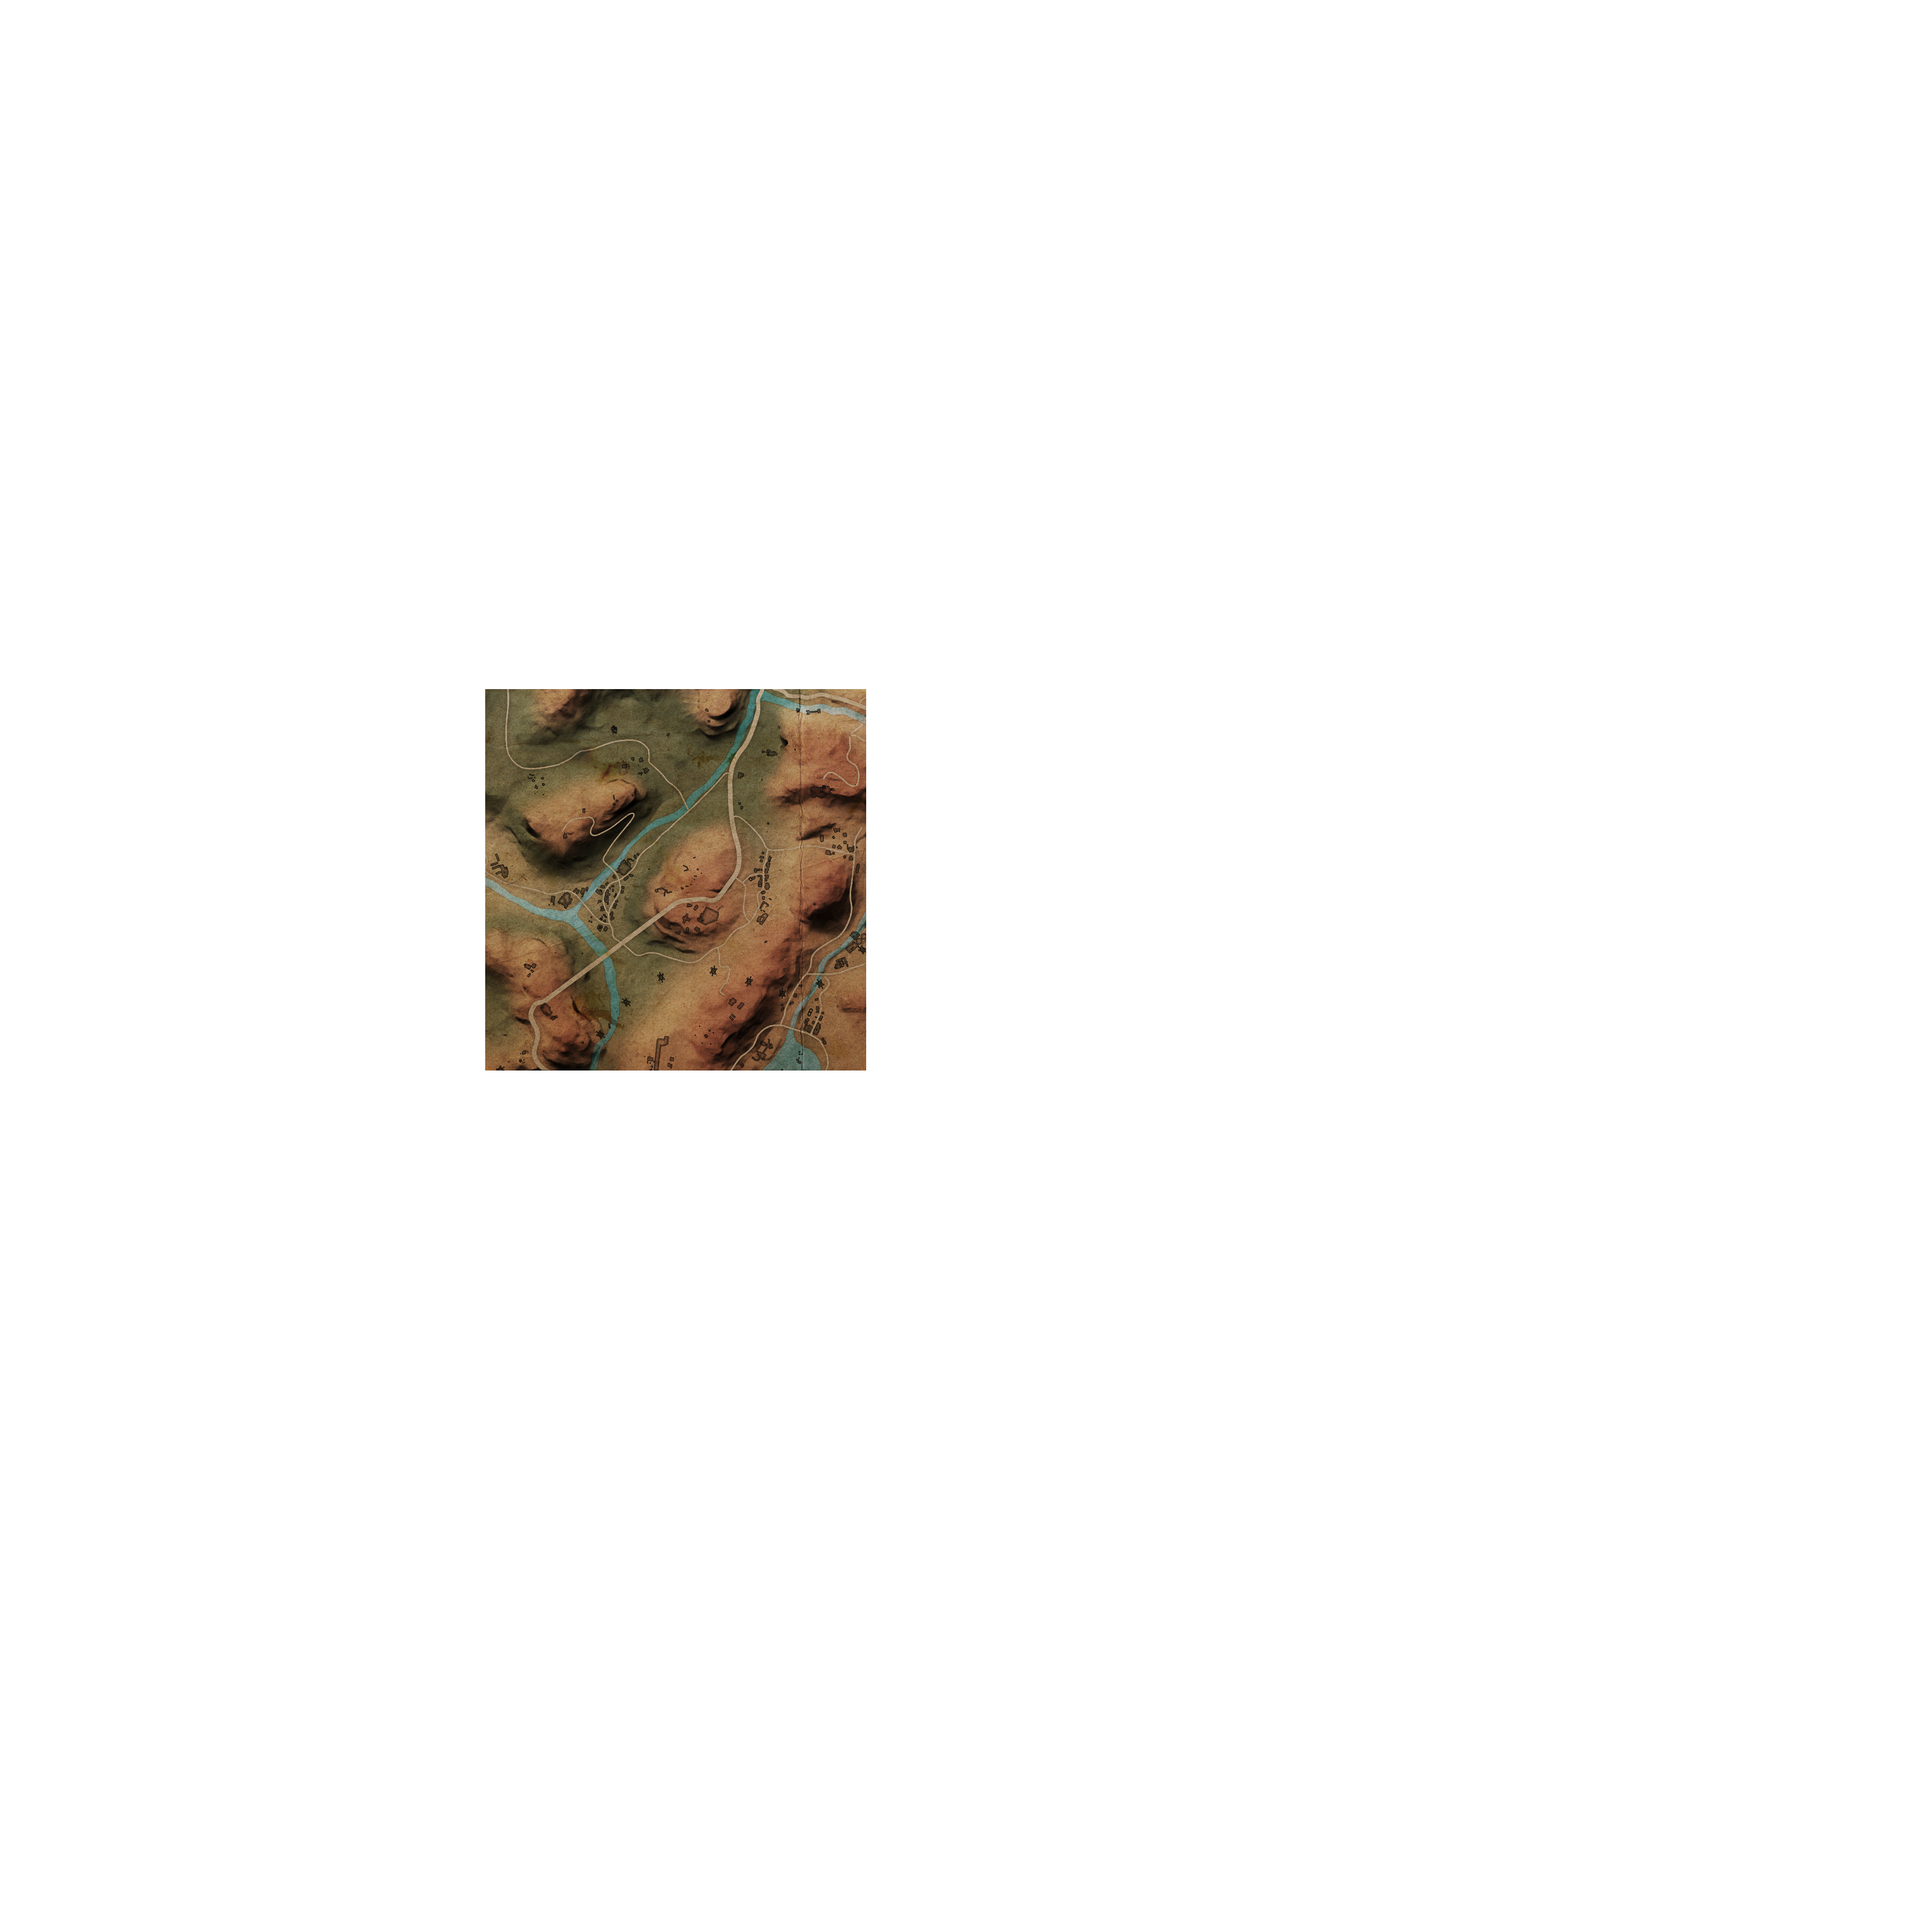
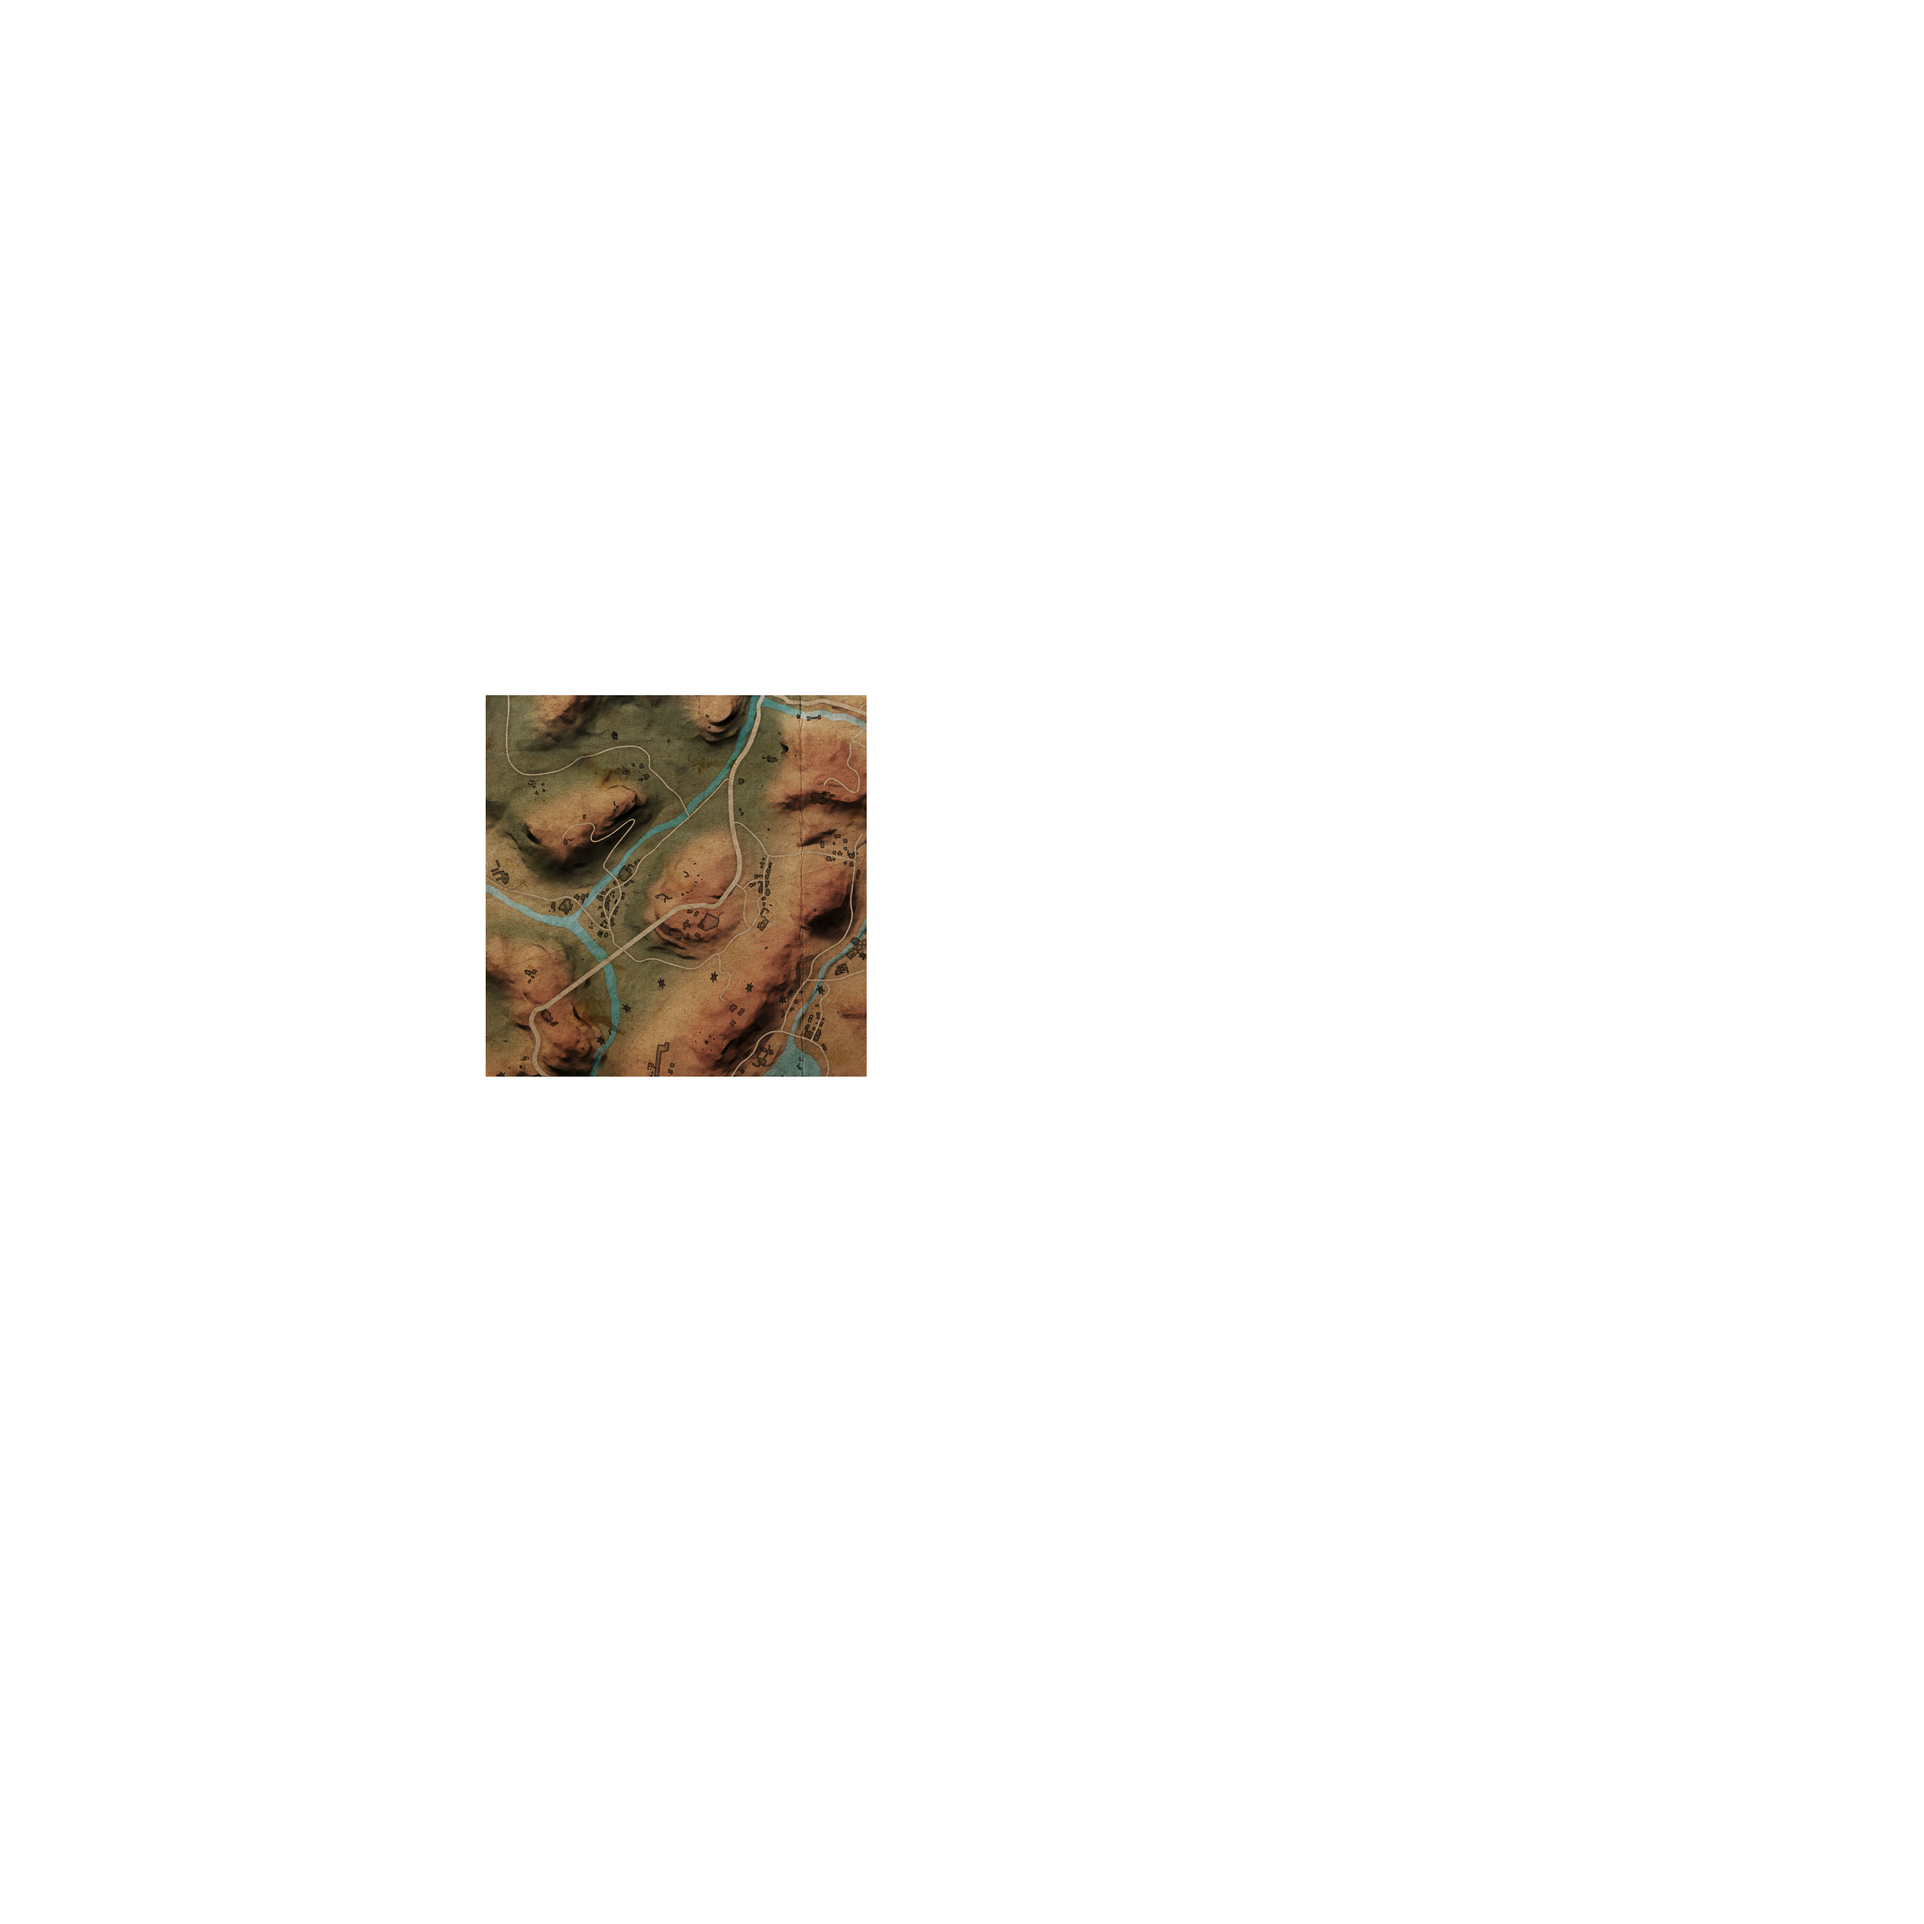
Correct NW overlays
Slightly adjusts (approx 2px right, 10px down) the nuclear winter overlays so they're better calibrated with in-game.
Corrects a bug allowing overlays to be applied in cell mode
Corrects a bug causing saved overlay preferences to be reset
Removes fairly redundant disabling and enabling of controls during draws

Changed region(s): [[0.25, 0.3438, 0.4688, 0.5625]]

diff --git a/Mappalachia/Form/FormMaster.cs b/Mappalachia/Form/FormMaster.cs
@@ -430,7 +430,7 @@ namespace Mappalachia
 			}
 		}
 
-		// Applies the config necessary for entering a map mode
+		// Applies the config necessary for entering a map mode, including for the first time at startup
 		void EnterMapMode(SettingsMap.Mode incomingMode)
 		{
 			switch (incomingMode)
@@ -459,8 +459,8 @@ namespace Mappalachia
 					break;
 			}
 
+			Map.DrawBaseLayer();
 			UpdateLocationColumnVisibility();
-			Map.Reset();
 		}
 
 		// Unselect all resolution options under heatmap resolution. Used to remove any current selection
@@ -678,22 +678,6 @@ namespace Mappalachia
 		// User-activated draw. Draw the plot points onto the map, if there is anything to plot
 		void DrawMap(bool drawBaseLayer)
 		{
-			// Disable control of items which can cause another draw event
-			buttonDrawMap.Enabled = false;
-			buttonAddToLegend.Enabled = false;
-			buttonRemoveFromLegend.Enabled = false;
-			numericMinZ.Enabled = false;
-			numericMaxZ.Enabled = false;
-			comboBoxCell.Enabled = false;
-			checkBoxCellDrawOutline.Enabled = false;
-			grayscaleMenuItem.Enabled = false;
-			brightnessMenuItem.Enabled = false;
-			clearMenuItem.Enabled = false;
-			resetMenuItem.Enabled = false;
-			layerMenuItem.Enabled = false;
-			plotSettingsMenuItem.Enabled = false;
-			advancedModeMenuItem.Enabled = false;
-
 			if (drawBaseLayer || forceDrawBaseLayer)
 			{
 				Map.DrawBaseLayer();
@@ -703,22 +687,6 @@ namespace Mappalachia
 			{
 				Map.Draw();
 			}
-
-			// Re-enable disabled controls after
-			buttonDrawMap.Enabled = true;
-			buttonAddToLegend.Enabled = true;
-			buttonRemoveFromLegend.Enabled = true;
-			numericMinZ.Enabled = true;
-			numericMaxZ.Enabled = true;
-			comboBoxCell.Enabled = true;
-			checkBoxCellDrawOutline.Enabled = true;
-			grayscaleMenuItem.Enabled = true;
-			brightnessMenuItem.Enabled = true;
-			clearMenuItem.Enabled = true;
-			resetMenuItem.Enabled = true;
-			layerMenuItem.Enabled = true;
-			plotSettingsMenuItem.Enabled = true;
-			advancedModeMenuItem.Enabled = true;
 
 			GC.Collect();
 		}

diff --git a/Mappalachia/Class/Map.cs b/Mappalachia/Class/Map.cs
@@ -84,17 +84,20 @@ namespace Mappalachia
 
 			Graphics graphic = Graphics.FromImage(backgroundLayer);
 
-			// Add the Nuclear Winter layers if selected
-			if (SettingsMap.layerNWMorgantown)
+			if (!SettingsMap.IsCellModeActive())
 			{
-				Image morgantownLayer = IOManager.GetImageLayerNWMorgantown();
-				graphic.DrawImage(morgantownLayer, new Point(0, 0));
-			}
+				// Add the Nuclear Winter layers if selected
+				if (SettingsMap.layerNWMorgantown)
+				{
+					Image morgantownLayer = IOManager.GetImageLayerNWMorgantown();
+					graphic.DrawImage(morgantownLayer, new Point(0, 0));
+				}
 
-			if (SettingsMap.layerNWFlatwoods)
-			{
-				Image flatwoodsLayer = IOManager.GetImageLayerNWFlatwoods();
-				graphic.DrawImage(flatwoodsLayer, new Point(0, 0));
+				if (SettingsMap.layerNWFlatwoods)
+				{
+					Image flatwoodsLayer = IOManager.GetImageLayerNWFlatwoods();
+					graphic.DrawImage(flatwoodsLayer, new Point(0, 0));
+				}
 			}
 
 			// Apply brightness adjustment and grayscale if selected

diff --git a/Mappalachia/Form/FormMaster.Designer.cs b/Mappalachia/Form/FormMaster.Designer.cs
@@ -945,6 +945,11 @@ namespace Mappalachia
 			this.numericMaxZ.Size = new System.Drawing.Size(70, 20);
 			this.numericMaxZ.TabIndex = 8;
 			this.toolTipControls.SetToolTip(this.numericMaxZ, "Select the maximum height of objects from the cell which to map.");
+			this.numericMaxZ.Value = new decimal(new int[] {
+            100,
+            0,
+            0,
+            0});
 			this.numericMaxZ.ValueChanged += new System.EventHandler(this.NumericMaxZ_ValueChanged);
 			this.numericMaxZ.Enter += new System.EventHandler(this.NumericMaxZ_Enter);
 			this.numericMaxZ.MouseDown += new System.Windows.Forms.MouseEventHandler(this.NumericMaxZ_MouseDown);
